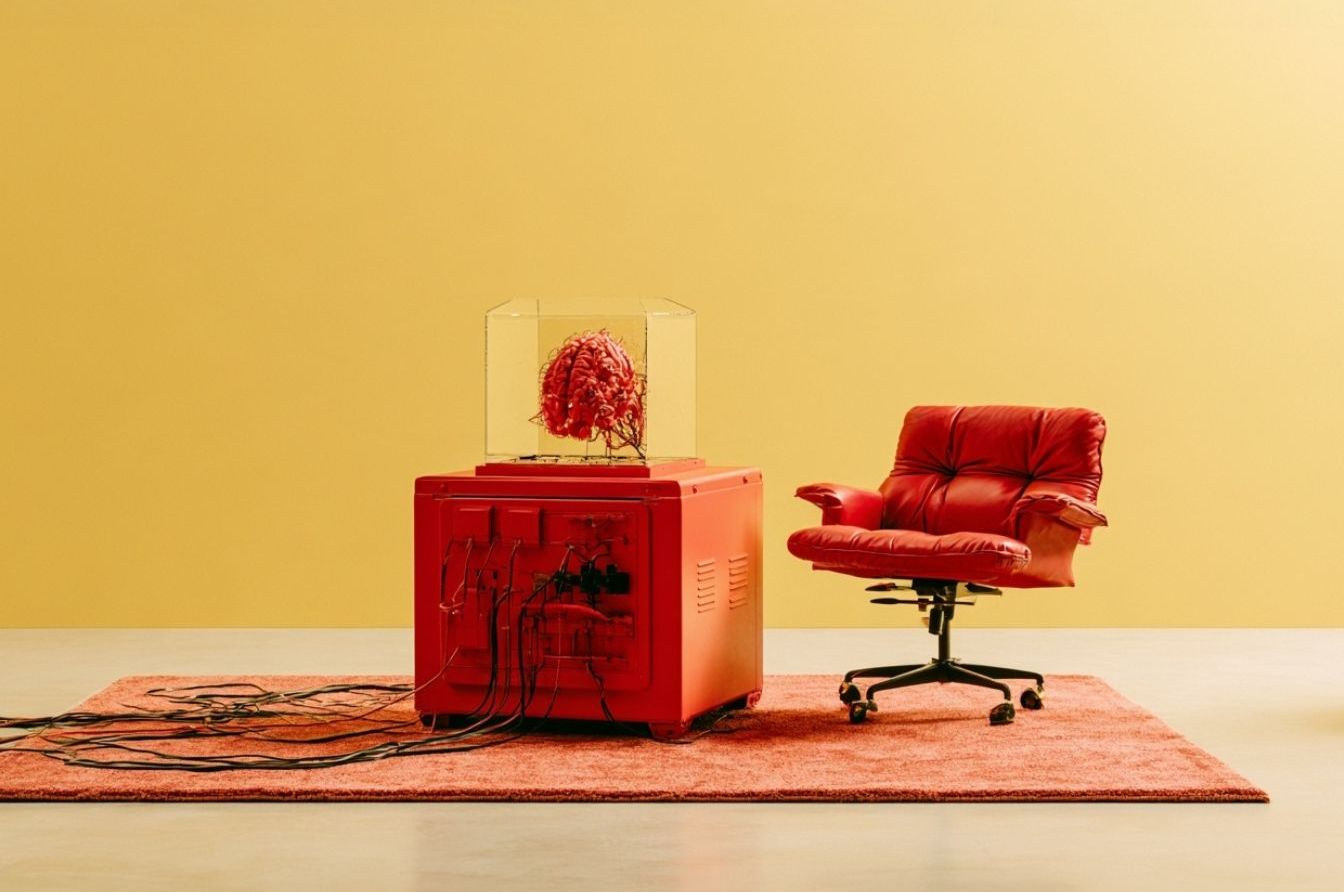
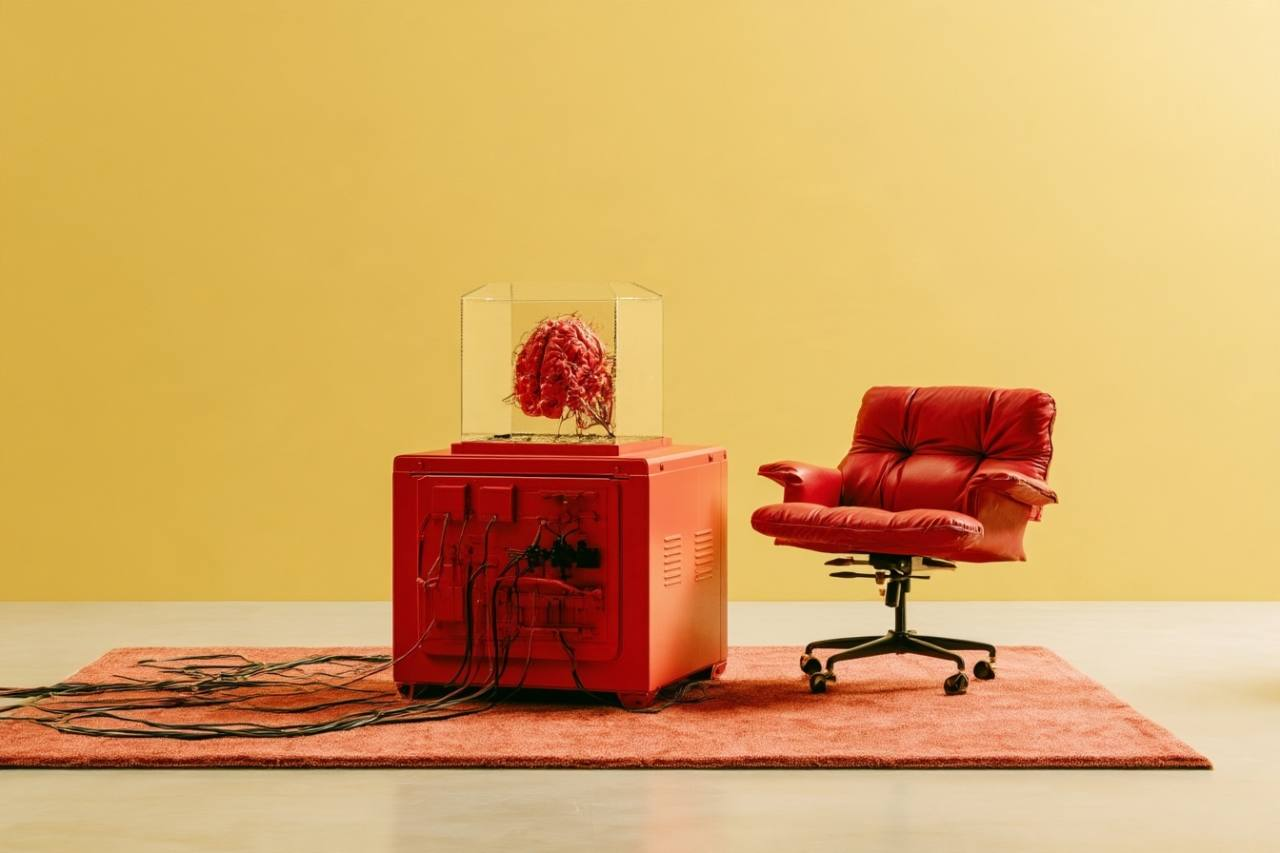
fix(account): use supplied original member artwork

diff --git a/components/AccountMembersIntro.tsx b/components/AccountMembersIntro.tsx
@@ -57,8 +57,8 @@ export function AccountMembersIntro() {
         <Image
           src="/images/account-members-space.jpg"
           alt="A brain in a glass case on a red machine beside a red chair, against a yellow wall."
-          width={1344}
-          height={892}
+          width={1280}
+          height={853}
           loading="eager"
           sizes="(max-width: 1312px) calc(100vw - 32px), 1280px"
           unoptimized

diff --git a/docs/website-account-recovery.md b/docs/website-account-recovery.md
@@ -3,8 +3,9 @@
 ## Account reference
 
 The supplied four-page `Untitled.pdf` is recreated as native, responsive account
-content. `AccountMembersIntro` retains the original embedded JPEG and source
-wording: the member introduction, four yellow experience cards, and three outlined
+content. `AccountMembersIntro` uses the separately supplied original `0_0 (7).jpg`
+(1280 × 853), unchanged, and the PDF's source wording: the member introduction,
+four yellow experience cards, and three outlined
 affirmation cards. The account workspace stays above it with Your library and
 Edit profile. Only the authenticated member's actual saved items are displayed.
 Printing uses white backgrounds and hides the decorative photograph.
@@ -65,7 +66,7 @@ operations. It refuses remote database URLs.
 - Isolated browser checks cover account widths 320–1440px, equal desktop cards,
   saved-only/empty/search/retry states, profile editing, STOP recovery, sign-out,
   partial deletion, signed-out gating and white print rendering.
-- The original account JPEG was extracted unchanged; artwork is not cropped.
+- The supplied original account JPEG is copied unchanged; artwork is not cropped.
 - Local webpack production build, TypeScript, lint and diff checks run before PR.
 - Production read-only checks covered public resource/category pages, local
   calculators, the reflection app and private-content gates. No actual signup,
